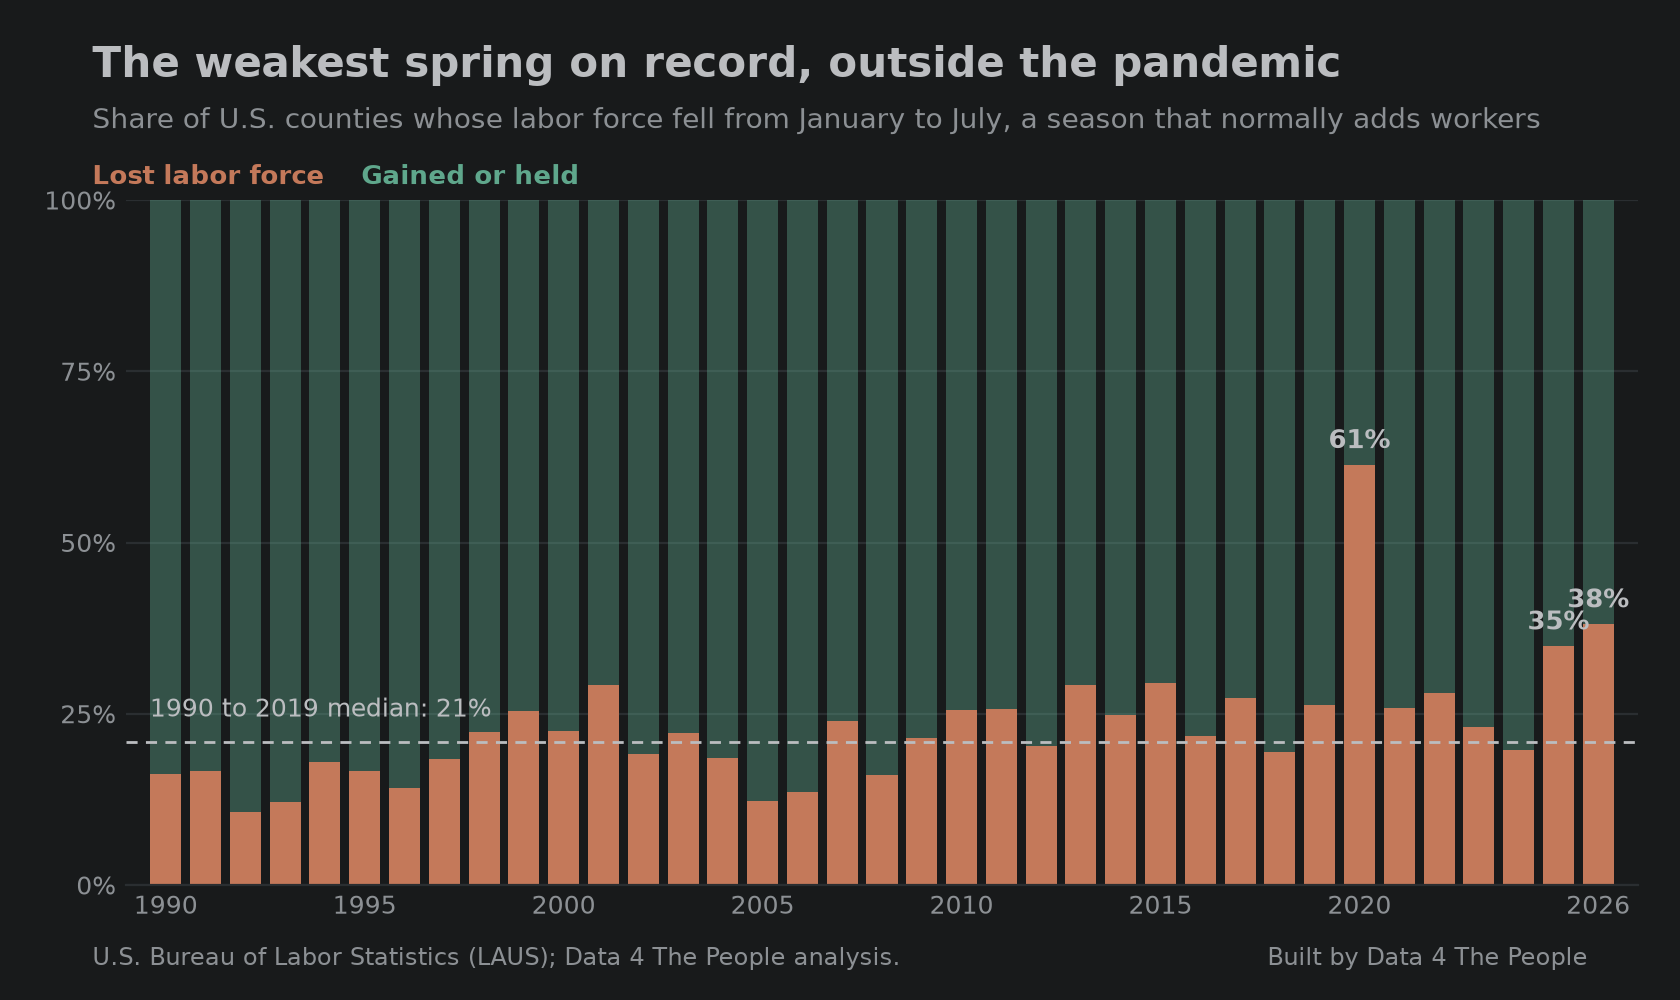
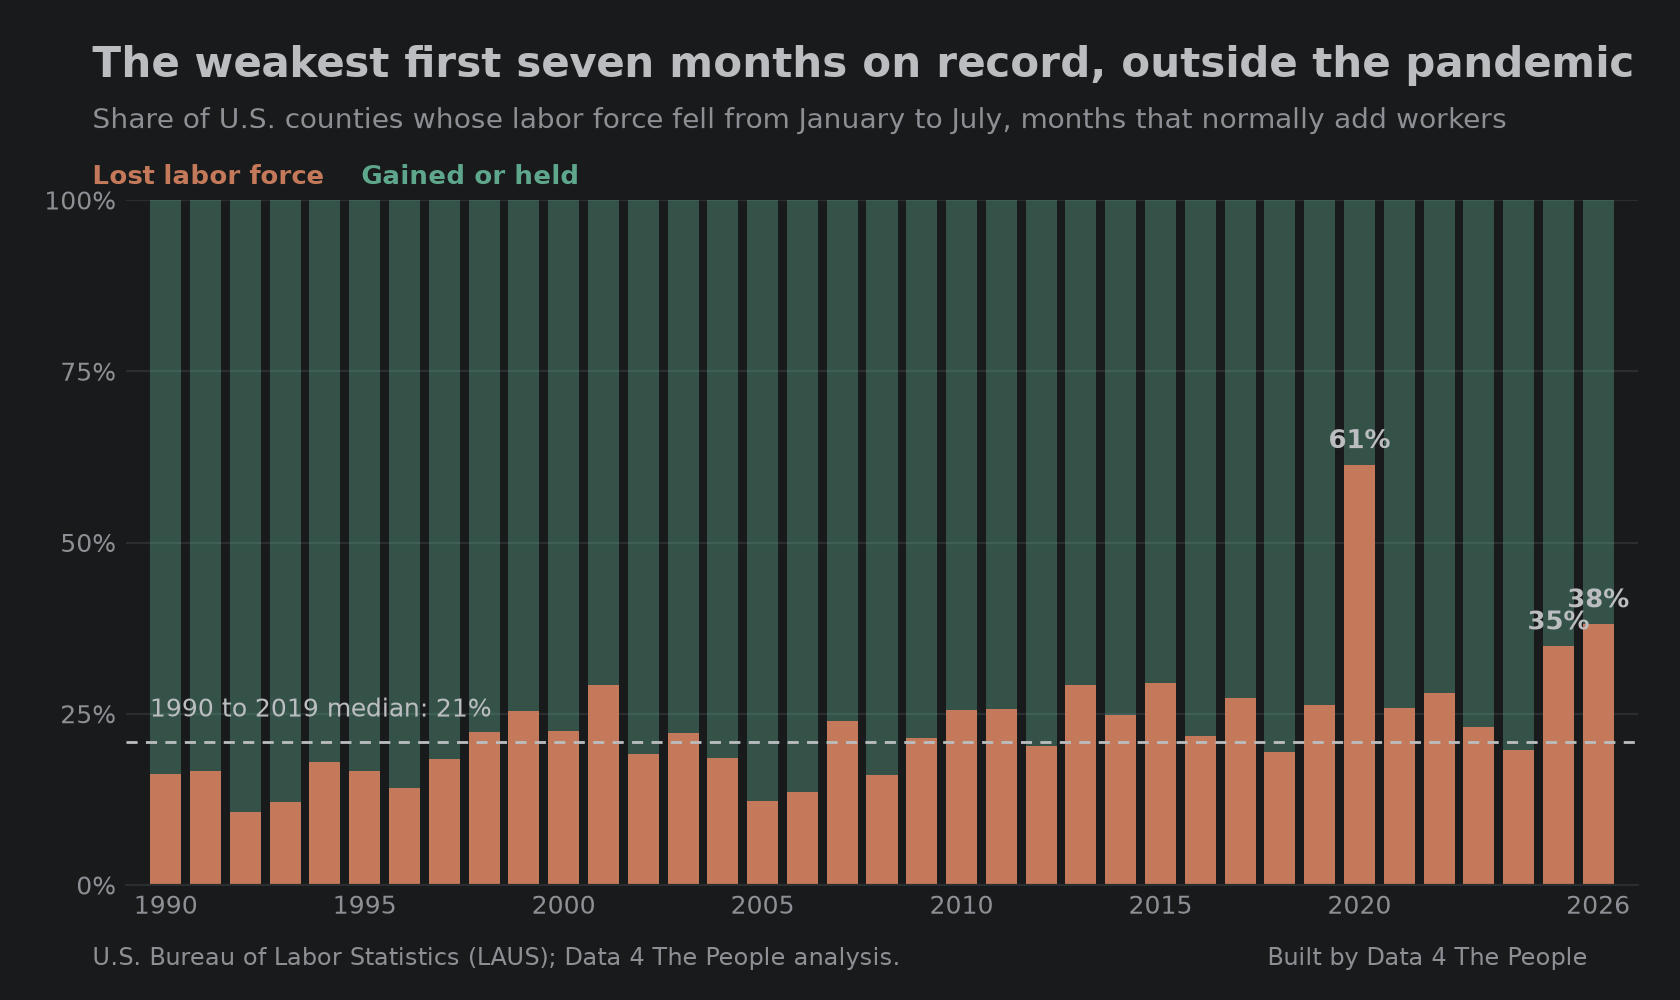
five-takeaways-labor-force-decline: say first seven months, not spring
Claude-Session: https://claude.ai/code/session_018g9hNMFwksQ5waKYLK1hKL

Changed region(s): [[0.2476, 0.031, 0.9905, 0.124]]

diff --git a/scripts/chart_jan_july.py b/scripts/chart_jan_july.py
@@ -56,8 +56,8 @@ def render(out: Path) -> Path:
     for y in (COVID, latest - 1, latest):
         ax.annotate(f"{t.loc[y, 'down']:.0f}%", xy=(y, t.loc[y, "down"]), xytext=(0, 6),
                     textcoords="offset points", color=INK, fontsize=9.5, fontweight="bold", ha="center")
-    frame(fig, "The weakest spring on record, outside the pandemic",
-          "Share of U.S. counties whose labor force fell from January to July, a season that normally adds workers")
+    frame(fig, "The weakest first seven months on record, outside the pandemic",
+          "Share of U.S. counties whose labor force fell from January to July, months that normally add workers")
     word_legend(fig, [("Lost labor force", CORAL), ("Gained or held", TEAL)])
 
     out.parent.mkdir(parents=True, exist_ok=True)

diff --git a/posts/five-takeaways-labor-force-decline/POST.md b/posts/five-takeaways-labor-force-decline/POST.md
@@ -29,9 +29,9 @@ A county is in structural loss when its civilian labor force, as measured by the
 ![Line chart of the share of U.S. counties in structural labor force loss, every month from January 2010 through July 2026. The line climbs from 7% of counties, or 219, at the start to 40%, or 1,281 of 3,214, in July 2026, which is the highest reading on record. It passes the previous peak of 38.8% set in May 2020.](images/01-structural-loss-over-time.png)
 *Counties whose labor force is more than 10% below the same month 20 years earlier. Source: BLS LAUS.*
 
-## 2. This year is the weakest spring since 2020
+## 2. The first seven months were the weakest since 2020
 
-Counties normally add workers between January and July. This year 38% of them lost workers instead, against a long-run figure of 21%. Second worst was last year.
+Counties normally add workers over the first seven months of the year. This year 38% of them lost workers instead, against a long-run figure of 21%. Second worst was last year.
 
 ![Stacked bar chart, one bar per year from 1990 to 2026, showing the share of U.S. counties whose labor force fell between January and July of the same year. The coral share is 38% in 2026 and 35% in 2025, against a 1990 to 2019 median of 21%. Only 2020, at 61%, was worse.](images/02-january-to-july.png)
 *January and July fall in the same year, so this comparison is not affected by the January change in population estimates. Source: BLS LAUS.*
